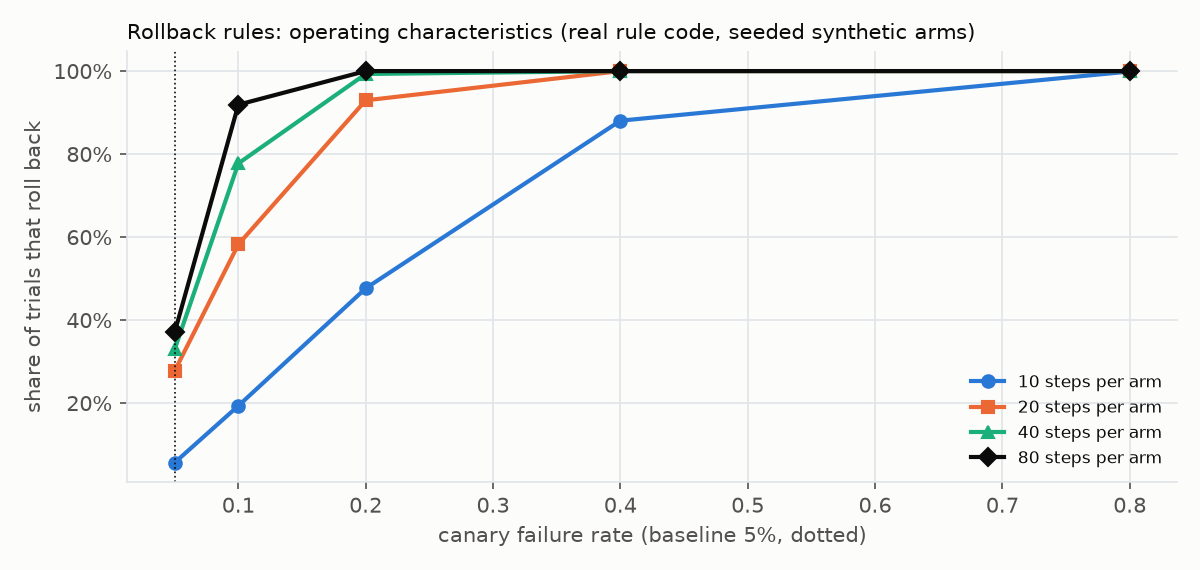
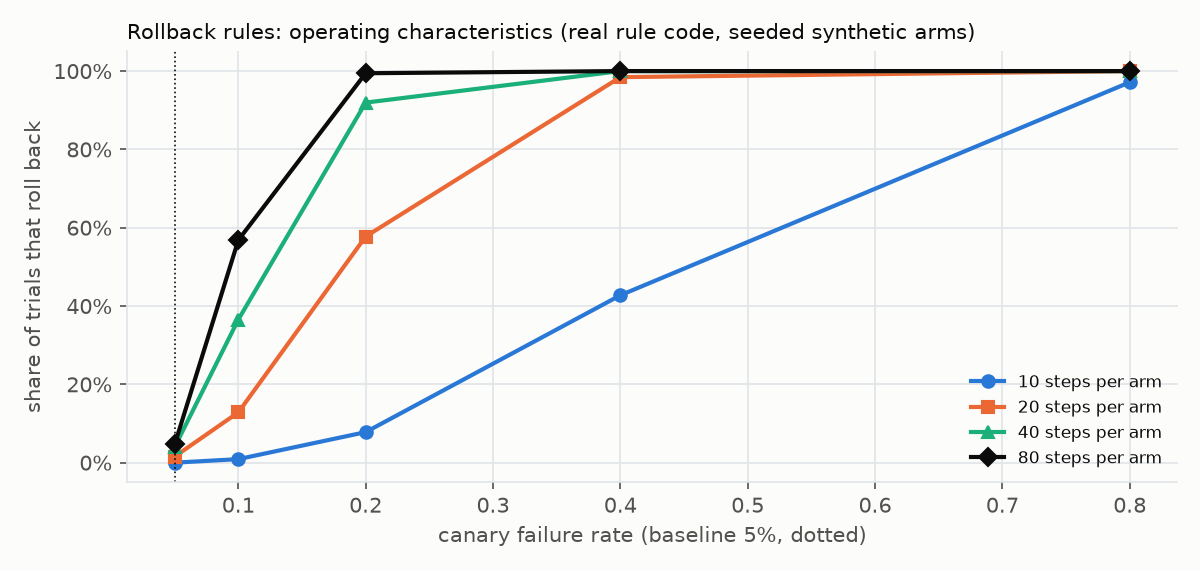
Platform benchmark results (memory, security, deployment, optimization) and report

diff --git a/benchmarks/platform_report.py b/benchmarks/platform_report.py
@@ -93,7 +93,7 @@ def memory() -> str:
         "## Memory Lab: strategies under fact churn\n\n![memory](platform_memory_accuracy.png)\n\n"
         f"Each cell is {len(seeds)} seeded scenarios (seeds {', '.join(seeds)}); every (strategy, question) is a graded workflow run on real workers. "
         "The reader is a scripted policy with fixed matching rules, so this measures how each strategy's *context* affects it, not how a real model uses memory. "
-        "Churn levels (facts updated, facts expired): "
+        "In the chart the persistent, refreshed-summary and retrieval lines overlap exactly (same accuracy at every churn level); no-memory and short-term rise with churn only because more questions have the correct answer *unknown*. Churn levels (facts updated, facts expired): "
         + ", ".join(f"({u},{e})" for u, e in churn)
         + ". Reproduce: `cd benchmarks && uv run --group bench python platform_bench.py memory --label platform`."
     ]
@@ -281,18 +281,32 @@ def deployment() -> str:
         "**Rollback rules: operating characteristics.** The real `failure_rate_increase` and `error_budget_exhausted` rule code (default thresholds) run on seeded synthetic arms "
         f"({rc[0]['trials']} trials per cell); this characterizes the configured rules, not any real workload. 'either' = a rollback is triggered by either rule.\n\n"
         + table(
-            ["steps per arm", "canary failure rate", "rollback rate", "insufficient evidence", "case"],
+            [
+                "steps per arm",
+                "canary failure rate",
+                "rollback (either rule)",
+                "failure-rate rule",
+                "error-budget rule (95% SLO)",
+                "insufficient evidence",
+                "case",
+            ],
             [
                 [
                     r["samples_per_arm"],
                     pct(float(r["canary_failure_rate"])),
                     pct(float(r["either_rule_trigger"])),
+                    pct(float(r["failure_rate_rule_trigger"])),
+                    pct(float(r["error_budget_rule_trigger"])),
                     pct(float(r["insufficient_evidence_share"])),
                     "healthy (false rollback)" if r["is_healthy_case"] == "True" else "regression",
                 ]
                 for r in rc
             ],
         )
+        + "\n\nThe baseline fails 5%, which is also the SLO boundary of the error-budget rule, so a canary at 5% is *healthy*. "
+        '**A first version of this benchmark exposed a flaw**: with a plain "failures exceed the budget" test, a healthy canary was rolled back 28-37% of the time at 20+ steps per arm. '
+        "Both rules now also require statistical evidence (one-sided Fisher exact test for the difference between arms, one-sided binomial test against the SLO boundary, alpha 0.05); "
+        "the table above is from the fixed code, where false rollbacks stay at about the alpha level or below and small samples report `insufficient evidence` instead of acting on noise."
         + f"\n\n**Live releases** ({len(live)} repetitions: gates, admin approval, 50% seeded canary, 30 live runs through 3 real workers, automatic rollback by the coordinator, then 10 post-rollback runs):\n\n"
         + table(
             ["measure", "result"],

diff --git a/AGENTOS_2_BENCHMARKS.md b/AGENTOS_2_BENCHMARKS.md
@@ -177,13 +177,13 @@ The duplicate and hostile-output rows are evidence that the idempotency fence an
 
 ## Platform benchmarks (Phases 5-10)
 
-Machine: Apple M1, 8 cores, 8.0 GB, macOS-26.5.2-arm64-arm-64bit-Mach-O, Python 3.13.7, postgres (PostgreSQL) 16.15 in Docker. Started 2026-10-26T23:25:36-0700; sections took memory 223 s, security 42 s, deployment 106 s, optimization 87 s. Real worker processes and an isolated database; run from a frozen `git worktree` with the app containers stopped; deterministic offline providers (no model calls). Raw CSVs: `benchmarks/results/platform/`.
+Machine: Apple M1, 8 cores, 8.0 GB, macOS-26.5.2-arm64-arm-64bit-Mach-O, Python 3.13.7, postgres (PostgreSQL) 16.15 in Docker. Started 2026-10-26T23:25:36-0700; sections took memory 223 s, security 42 s, deployment 108 s, optimization 87 s. Real worker processes and an isolated database; run from a frozen `git worktree` with the app containers stopped; deterministic offline providers (no model calls). Raw CSVs: `benchmarks/results/platform/`.
 
 ## Memory Lab: strategies under fact churn
 
 ![memory](platform_memory_accuracy.png)
 
-Each cell is 3 seeded scenarios (seeds 1, 2, 3); every (strategy, question) is a graded workflow run on real workers. The reader is a scripted policy with fixed matching rules, so this measures how each strategy's *context* affects it, not how a real model uses memory. Churn levels (facts updated, facts expired): (0,0), (4,2), (8,3), (12,5). Reproduce: `cd benchmarks && uv run --group bench python platform_bench.py memory --label platform`.
+Each cell is 3 seeded scenarios (seeds 1, 2, 3); every (strategy, question) is a graded workflow run on real workers. The reader is a scripted policy with fixed matching rules, so this measures how each strategy's *context* affects it, not how a real model uses memory. In the chart the persistent, refreshed-summary and retrieval lines overlap exactly (same accuracy at every churn level); no-memory and short-term rise with churn only because more questions have the correct answer *unknown*. Churn levels (facts updated, facts expired): (0,0), (4,2), (8,3), (12,5). Reproduce: `cd benchmarks && uv run --group bench python platform_bench.py memory --label platform`.
 
 ### Churn: 0 updated, 0 expired
 
@@ -265,37 +265,39 @@ This measures the platform's code-level enforcement against a fixed corpus of 28
 
 **Rollback rules: operating characteristics.** The real `failure_rate_increase` and `error_budget_exhausted` rule code (default thresholds) run on seeded synthetic arms (2000 trials per cell); this characterizes the configured rules, not any real workload. 'either' = a rollback is triggered by either rule.
 
-| steps per arm | canary failure rate | rollback rate | insufficient evidence | case |
-|---|---|---|---|---|
-| 10 | 5% | 6% | 0% | healthy (false rollback) |
-| 10 | 10% | 19% | 0% | regression |
-| 10 | 20% | 48% | 0% | regression |
-| 10 | 40% | 88% | 0% | regression |
-| 10 | 80% | 100% | 0% | regression |
-| 20 | 5% | 28% | 0% | healthy (false rollback) |
-| 20 | 10% | 58% | 0% | regression |
-| 20 | 20% | 93% | 0% | regression |
-| 20 | 40% | 100% | 0% | regression |
-| 20 | 80% | 100% | 0% | regression |
-| 40 | 5% | 33% | 0% | healthy (false rollback) |
-| 40 | 10% | 78% | 0% | regression |
-| 40 | 20% | 99% | 0% | regression |
-| 40 | 40% | 100% | 0% | regression |
-| 40 | 80% | 100% | 0% | regression |
-| 80 | 5% | 37% | 0% | healthy (false rollback) |
-| 80 | 10% | 92% | 0% | regression |
-| 80 | 20% | 100% | 0% | regression |
-| 80 | 40% | 100% | 0% | regression |
-| 80 | 80% | 100% | 0% | regression |
+| steps per arm | canary failure rate | rollback (either rule) | failure-rate rule | error-budget rule (95% SLO) | insufficient evidence | case |
+|---|---|---|---|---|---|---|
+| 10 | 5% | 0% | 0% | 0% | 6% | healthy (false rollback) |
+| 10 | 10% | 1% | 1% | 0% | 18% | regression |
+| 10 | 20% | 8% | 8% | 0% | 40% | regression |
+| 10 | 40% | 43% | 43% | 0% | 45% | regression |
+| 10 | 80% | 97% | 97% | 0% | 3% | regression |
+| 20 | 5% | 2% | 0% | 2% | 3% | healthy (false rollback) |
+| 20 | 10% | 13% | 2% | 13% | 15% | regression |
+| 20 | 20% | 58% | 21% | 58% | 36% | regression |
+| 20 | 40% | 98% | 82% | 98% | 15% | regression |
+| 20 | 80% | 100% | 100% | 100% | 0% | regression |
+| 40 | 5% | 4% | 0% | 4% | 0% | healthy (false rollback) |
+| 40 | 10% | 37% | 7% | 37% | 0% | regression |
+| 40 | 20% | 92% | 53% | 92% | 4% | regression |
+| 40 | 40% | 100% | 98% | 100% | 1% | regression |
+| 40 | 80% | 100% | 100% | 100% | 0% | regression |
+| 80 | 5% | 5% | 0% | 5% | 0% | healthy (false rollback) |
+| 80 | 10% | 57% | 1% | 57% | 0% | regression |
+| 80 | 20% | 99% | 54% | 99% | 0% | regression |
+| 80 | 40% | 100% | 100% | 100% | 0% | regression |
+| 80 | 80% | 100% | 100% | 100% | 0% | regression |
+
+The baseline fails 5%, which is also the SLO boundary of the error-budget rule, so a canary at 5% is *healthy*. **A first version of this benchmark exposed a flaw**: with a plain "failures exceed the budget" test, a healthy canary was rolled back 28-37% of the time at 20+ steps per arm. Both rules now also require statistical evidence (one-sided Fisher exact test for the difference between arms, one-sided binomial test against the SLO boundary, alpha 0.05); the table above is from the fixed code, where false rollbacks stay at about the alpha level or below and small samples report `insufficient evidence` instead of acting on noise.
 
 **Live releases** (5 repetitions: gates, admin approval, 50% seeded canary, 30 live runs through 3 real workers, automatic rollback by the coordinator, then 10 post-rollback runs):
 
 | measure | result |
 |---|---|
 | automatic rollback triggered | 5/5 |
-| canary-arm failures (at the step limit) | 79/79 canary runs |
-| rollback decided after last live run finished (median / min-max) | 0.67 (0.01-0.99) s |
-| runs pinned to a version different from the seeded routing decision | 0/150 |
+| canary-arm failures (at the step limit) | 77/77 canary runs |
+| rollback decided after last live run finished (median / min-max) | 0.44 (0.00-0.55) s |
+| runs pinned to a version different from the seeded routing decision | 0/160 |
 | active/canary pointers consistent after rollback | 5/5 |
 | post-rollback runs succeeded on the restored version | 10/10, 10/10, 10/10, 10/10, 10/10 |
 

diff --git a/docs/benchmarks/fragments/30_platform.md b/docs/benchmarks/fragments/30_platform.md
@@ -1,12 +1,12 @@
 ## Platform benchmarks (Phases 5-10)
 
-Machine: Apple M1, 8 cores, 8.0 GB, macOS-26.5.2-arm64-arm-64bit-Mach-O, Python 3.13.7, postgres (PostgreSQL) 16.15 in Docker. Started 2026-10-26T23:25:36-0700; sections took memory 223 s, security 42 s, deployment 106 s, optimization 87 s. Real worker processes and an isolated database; run from a frozen `git worktree` with the app containers stopped; deterministic offline providers (no model calls). Raw CSVs: `benchmarks/results/platform/`.
+Machine: Apple M1, 8 cores, 8.0 GB, macOS-26.5.2-arm64-arm-64bit-Mach-O, Python 3.13.7, postgres (PostgreSQL) 16.15 in Docker. Started 2026-10-26T23:25:36-0700; sections took memory 223 s, security 42 s, deployment 108 s, optimization 87 s. Real worker processes and an isolated database; run from a frozen `git worktree` with the app containers stopped; deterministic offline providers (no model calls). Raw CSVs: `benchmarks/results/platform/`.
 
 ## Memory Lab: strategies under fact churn
 
 ![memory](platform_memory_accuracy.png)
 
-Each cell is 3 seeded scenarios (seeds 1, 2, 3); every (strategy, question) is a graded workflow run on real workers. The reader is a scripted policy with fixed matching rules, so this measures how each strategy's *context* affects it, not how a real model uses memory. Churn levels (facts updated, facts expired): (0,0), (4,2), (8,3), (12,5). Reproduce: `cd benchmarks && uv run --group bench python platform_bench.py memory --label platform`.
+Each cell is 3 seeded scenarios (seeds 1, 2, 3); every (strategy, question) is a graded workflow run on real workers. The reader is a scripted policy with fixed matching rules, so this measures how each strategy's *context* affects it, not how a real model uses memory. In the chart the persistent, refreshed-summary and retrieval lines overlap exactly (same accuracy at every churn level); no-memory and short-term rise with churn only because more questions have the correct answer *unknown*. Churn levels (facts updated, facts expired): (0,0), (4,2), (8,3), (12,5). Reproduce: `cd benchmarks && uv run --group bench python platform_bench.py memory --label platform`.
 
 ### Churn: 0 updated, 0 expired
 
@@ -88,37 +88,39 @@ This measures the platform's code-level enforcement against a fixed corpus of 28
 
 **Rollback rules: operating characteristics.** The real `failure_rate_increase` and `error_budget_exhausted` rule code (default thresholds) run on seeded synthetic arms (2000 trials per cell); this characterizes the configured rules, not any real workload. 'either' = a rollback is triggered by either rule.
 
-| steps per arm | canary failure rate | rollback rate | insufficient evidence | case |
-|---|---|---|---|---|
-| 10 | 5% | 6% | 0% | healthy (false rollback) |
-| 10 | 10% | 19% | 0% | regression |
-| 10 | 20% | 48% | 0% | regression |
-| 10 | 40% | 88% | 0% | regression |
-| 10 | 80% | 100% | 0% | regression |
-| 20 | 5% | 28% | 0% | healthy (false rollback) |
-| 20 | 10% | 58% | 0% | regression |
-| 20 | 20% | 93% | 0% | regression |
-| 20 | 40% | 100% | 0% | regression |
-| 20 | 80% | 100% | 0% | regression |
-| 40 | 5% | 33% | 0% | healthy (false rollback) |
-| 40 | 10% | 78% | 0% | regression |
-| 40 | 20% | 99% | 0% | regression |
-| 40 | 40% | 100% | 0% | regression |
-| 40 | 80% | 100% | 0% | regression |
-| 80 | 5% | 37% | 0% | healthy (false rollback) |
-| 80 | 10% | 92% | 0% | regression |
-| 80 | 20% | 100% | 0% | regression |
-| 80 | 40% | 100% | 0% | regression |
-| 80 | 80% | 100% | 0% | regression |
+| steps per arm | canary failure rate | rollback (either rule) | failure-rate rule | error-budget rule (95% SLO) | insufficient evidence | case |
+|---|---|---|---|---|---|---|
+| 10 | 5% | 0% | 0% | 0% | 6% | healthy (false rollback) |
+| 10 | 10% | 1% | 1% | 0% | 18% | regression |
+| 10 | 20% | 8% | 8% | 0% | 40% | regression |
+| 10 | 40% | 43% | 43% | 0% | 45% | regression |
+| 10 | 80% | 97% | 97% | 0% | 3% | regression |
+| 20 | 5% | 2% | 0% | 2% | 3% | healthy (false rollback) |
+| 20 | 10% | 13% | 2% | 13% | 15% | regression |
+| 20 | 20% | 58% | 21% | 58% | 36% | regression |
+| 20 | 40% | 98% | 82% | 98% | 15% | regression |
+| 20 | 80% | 100% | 100% | 100% | 0% | regression |
+| 40 | 5% | 4% | 0% | 4% | 0% | healthy (false rollback) |
+| 40 | 10% | 37% | 7% | 37% | 0% | regression |
+| 40 | 20% | 92% | 53% | 92% | 4% | regression |
+| 40 | 40% | 100% | 98% | 100% | 1% | regression |
+| 40 | 80% | 100% | 100% | 100% | 0% | regression |
+| 80 | 5% | 5% | 0% | 5% | 0% | healthy (false rollback) |
+| 80 | 10% | 57% | 1% | 57% | 0% | regression |
+| 80 | 20% | 99% | 54% | 99% | 0% | regression |
+| 80 | 40% | 100% | 100% | 100% | 0% | regression |
+| 80 | 80% | 100% | 100% | 100% | 0% | regression |
+
+The baseline fails 5%, which is also the SLO boundary of the error-budget rule, so a canary at 5% is *healthy*. **A first version of this benchmark exposed a flaw**: with a plain "failures exceed the budget" test, a healthy canary was rolled back 28-37% of the time at 20+ steps per arm. Both rules now also require statistical evidence (one-sided Fisher exact test for the difference between arms, one-sided binomial test against the SLO boundary, alpha 0.05); the table above is from the fixed code, where false rollbacks stay at about the alpha level or below and small samples report `insufficient evidence` instead of acting on noise.
 
 **Live releases** (5 repetitions: gates, admin approval, 50% seeded canary, 30 live runs through 3 real workers, automatic rollback by the coordinator, then 10 post-rollback runs):
 
 | measure | result |
 |---|---|
 | automatic rollback triggered | 5/5 |
-| canary-arm failures (at the step limit) | 79/79 canary runs |
-| rollback decided after last live run finished (median / min-max) | 0.67 (0.01-0.99) s |
-| runs pinned to a version different from the seeded routing decision | 0/150 |
+| canary-arm failures (at the step limit) | 77/77 canary runs |
+| rollback decided after last live run finished (median / min-max) | 0.44 (0.00-0.55) s |
+| runs pinned to a version different from the seeded routing decision | 0/160 |
 | active/canary pointers consistent after rollback | 5/5 |
 | post-rollback runs succeeded on the restored version | 10/10, 10/10, 10/10, 10/10, 10/10 |
 
